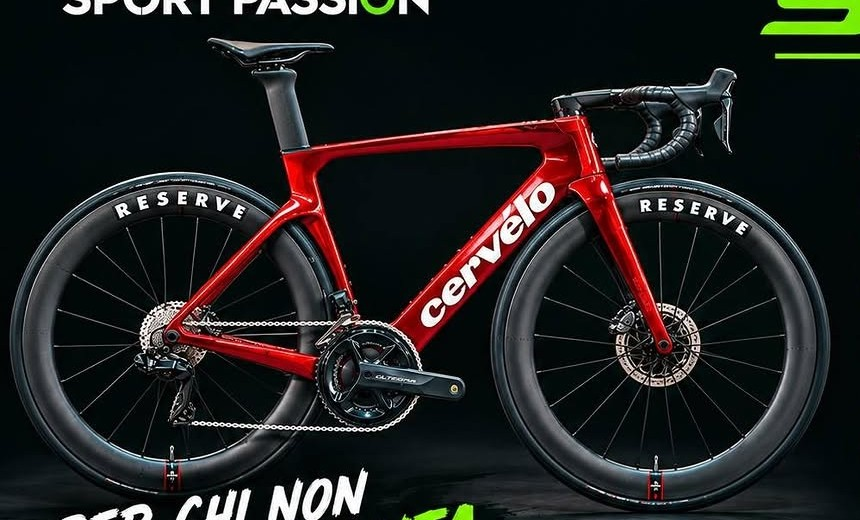
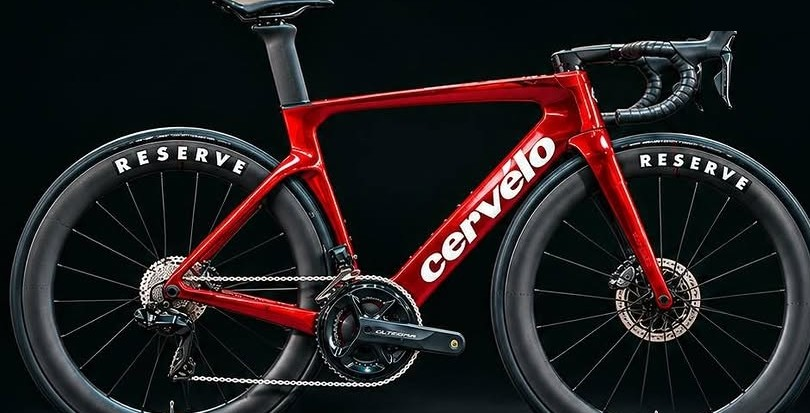
Foto copertina ritagliata e proporzioni corrette, menu compatto su telefono, note di progetto per Claude Code
Claude-Session: https://claude.ai/code/session_01WFYYR9he5RX7XEhuLtVydR

diff --git a/style.css b/style.css
@@ -7,7 +7,7 @@
 *{box-sizing:border-box}
 html{scroll-behavior:smooth}
 body{margin:0;background:var(--bg);color:var(--ink);font-family:var(--body);font-size:17px;line-height:1.55}
-img{max-width:100%;display:block}
+img{max-width:100%;height:auto;display:block}
 a{color:var(--green-ink)}
 h1,h2,h3,h4{font-family:var(--display);font-weight:800;text-transform:uppercase;line-height:1;margin:0}
 h1{font-size:clamp(48px,7vw,88px);font-style:italic;line-height:.95}
@@ -71,7 +71,7 @@ header{position:sticky;top:0;z-index:20;background:var(--dark)}
 .tabs button[aria-pressed=true]{background:var(--green)}
 .bike{background:var(--card);border:1px solid var(--line);border-radius:12px;overflow:hidden;display:flex;flex-direction:column}
 .bike .ph{height:190px;background:#ECE6D8;display:flex;align-items:center;justify-content:center;color:var(--mute);font-size:14px}
-.bike img{height:190px;width:100%;object-fit:cover;background:var(--dark)}
+.bike img{height:190px!important;width:100%;object-fit:cover;background:var(--dark)}
 .bike .in{padding:20px;display:flex;flex-direction:column;gap:8px;flex-grow:1}
 .bike p{color:var(--ink2);font-size:15px}
 .badge{align-self:flex-start;background:var(--green);color:var(--dark);font-size:13px;font-weight:600;padding:3px 10px;border-radius:99px}
@@ -118,6 +118,19 @@ footer h4{color:#F2F4F5;font-size:20px;margin-bottom:8px}
 footer a{color:var(--green)}
 footer img{height:52px;width:auto}
 .legal{margin-top:32px;font-size:13px;color:#8C979F}
+
+/* telefono: menu compatto su una riga scorrevole, non resta incollato in alto */
+@media (max-width:760px){
+  header{position:static}
+  .nav{padding:10px 16px;gap:8px}
+  .nav img{height:36px}
+  .nav .btn{min-height:44px;padding:8px 16px;font-size:17px}
+  .nav nav{order:3;width:100%;flex-wrap:nowrap;overflow-x:auto;gap:18px;padding-bottom:2px;scrollbar-width:none}
+  .nav nav::-webkit-scrollbar{display:none}
+  .nav nav a{white-space:nowrap;font-size:17px}
+  section{padding:48px 0}
+  .hero .wrap{gap:28px}
+}
 
 /* whatsapp float */
 .wa-float{position:fixed;right:18px;bottom:18px;z-index:30;width:58px;height:58px;border-radius:50%;background:var(--wa);display:flex;align-items:center;justify-content:center;box-shadow:0 6px 20px rgba(0,0,0,.25)}

diff --git a/index.html b/index.html
@@ -25,7 +25,7 @@
       </div>
     </div>
     <figure>
-      <img src="img/cervelo-bike.jpg" alt="Cervélo S5 rossa con ruote Reserve e gruppo Ultegra Di2" width="860" height="520">
+      <img src="img/cervelo-bike.jpg" alt="Cervélo S5 rossa con ruote Reserve e gruppo Ultegra Di2" width="810" height="413">
       <figcaption><b>Ultimo arrivo</b> · Cervélo S5 · ruote Reserve · Ultegra Di2</figcaption>
     </figure>
   </div>

diff --git a/CLAUDE.md b/CLAUDE.md
@@ -1,0 +1,33 @@
+# Progetto: sito demo Deka Sport Passion
+
+Lavoro di Salvo (Instagram @_s_alvo) per proporsi come social media manager a **Deka Sport Passion** (Sport Passion Srl, P.IVA 02413030392), negozio di articoli sportivi a conduzione familiare a Sant'Agata sul Santerno (RA), Via Ricci Curbastro 15/17. Salvo **non ha ancora parlato con il negozio**: vuole presentarsi con un prodotto pronto (sito demo + restyling Instagram + documento di proposta con prezzi).
+
+Rispondi sempre in italiano. **Salvo vuole che tu gli faccia sempre domande** prima delle scelte importanti. Lavora solo da smartphone/tablet, nessun computer: dagli istruzioni pensate per il telefono.
+
+## Il negozio
+- Dal 1973. Sport di punta: ciclismo (corsa, gravel, MTB), bici nuove e usate, officina specializzata, biomeccanica, eventi/uscite in bici in Romagna con bar, ristoranti e agriturismi convenzionati.
+- Anche: calcio, tennis, padel, racchettoni, pallavolo, atletica, running.
+- Telefono negozio: 0545 45411 · WhatsApp: +39 348 811 2611 (confermato da Salvo).
+- Orari: lun e mer–sab 9:00–12:30 · 15:30–19:30; mar 15:30–19:30; dom chiuso.
+- Social: Instagram @dekasportpassion (~1.977 follower, 938 post), Facebook "Deka Sport Passion" (~6.315 follower, 98% recensioni positive su 28). Vendono anche su eBay ("DEKA SPORT PASSION", oltre 5.000 feedback).
+- Vecchio sito sportpassion.biz in manutenzione; sui social linkano dekasportpassion.com. Non si sa chi gestisce il dominio.
+- Somec (telai artigianali, Via San Martino 1/A, stesso paese, fondata 1973 da Oliviero Gallegati) è un'azienda separata; Deka vende bici Somec usate.
+- Ultimo evento: Raduno Bike Off Road "La Sabbiona" – Memorial Babbo Fontigi, 11 ottobre 2026, Oriolo dei Fichi (Faenza). Reel: https://www.instagram.com/reel/DeEeomMHDno/ . Molti eventi li comunicano via WhatsApp e con locandine in negozio.
+
+## Problemi trovati sui loro social (argomenti per la proposta)
+Sito offline e due domini diversi; highlight Instagram "Chiuso, riapriremo a settembre" ancora in evidenza a fine ottobre; post del raduno pubblicato due volte; locandine con testo troppo piccolo; Instagram sottoutilizzato rispetto a Facebook e rapporto follower/seguiti quasi 1:1; officina, biomeccanica e usato non citati in bio; banner cookie del vecchio sito non conforme GDPR.
+
+## Il sito (questo repository)
+- Pubblicato con GitHub Pages: https://salvatorevirgillito04-code.github.io/dekasportpassion/
+- HTML/CSS/JS statici, nessun build. Pagine: `index.html`, `servizi.html` (officina, biomeccanica, prenotazione), `eventi.html`, `shop.html`, `contatti.html`. Fascia demo, menu e footer sono iniettati da `app.js` (anche link WhatsApp, orari, logica di prenotazione).
+- Stile scelto da Salvo: sfondo avorio #FAF7F0, colori del brand (verde DEKA #6CE002 su nero #0B0F12; per testo verde su chiaro #2E6B00), font Barlow Condensed + Barlow.
+- Ordine homepage voluto da Salvo: copertina → servizi → eventi → shop → bici in vetrina (nuove e usate) → storia e recensioni → invito a prenotare.
+- Prenotazione: modulo con servizio, giorno e orario disponibili (segue gli orari reali; martedì solo pomeriggio, domenica esclusa). È solo dimostrativo: non invia nulla. Salvo vuole il modulo; eventuali cambi dopo aver parlato col titolare.
+- Regole da mantenere finché il negozio non approva: fascia "Demo – proposta di Salvo, non è il sito ufficiale" con il suo Instagram, `noindex` su ogni pagina e `robots.txt` che blocca i motori di ricerca.
+- Foto: per ora solo la Cervélo S5 (ultimo arrivo, post del 17 settembre) e il logo, ritagliati da screenshot del loro Instagram. Le parti tra parentesi quadre ([PREZZO], [NOME EVENTO], storia della famiglia, partner…) vanno completate con dati veri: non inventarle.
+
+## Prossimi passi previsti
+1. Controllare il sito su telefono pagina per pagina.
+2. Restyling Instagram: bio, copertine highlight, 6–9 post di esempio.
+3. Documento di proposta: analisi, servizi, calendario editoriale, prezzi di Salvo.
+4. Dopo il sì: negozio online vero (Shopify consigliato, sincronizzabile con eBay e catalogo Instagram/Facebook), dominio intestato all'azienda, automazioni (programmazione post, risposte DM, canale WhatsApp eventi, richiesta recensioni).
